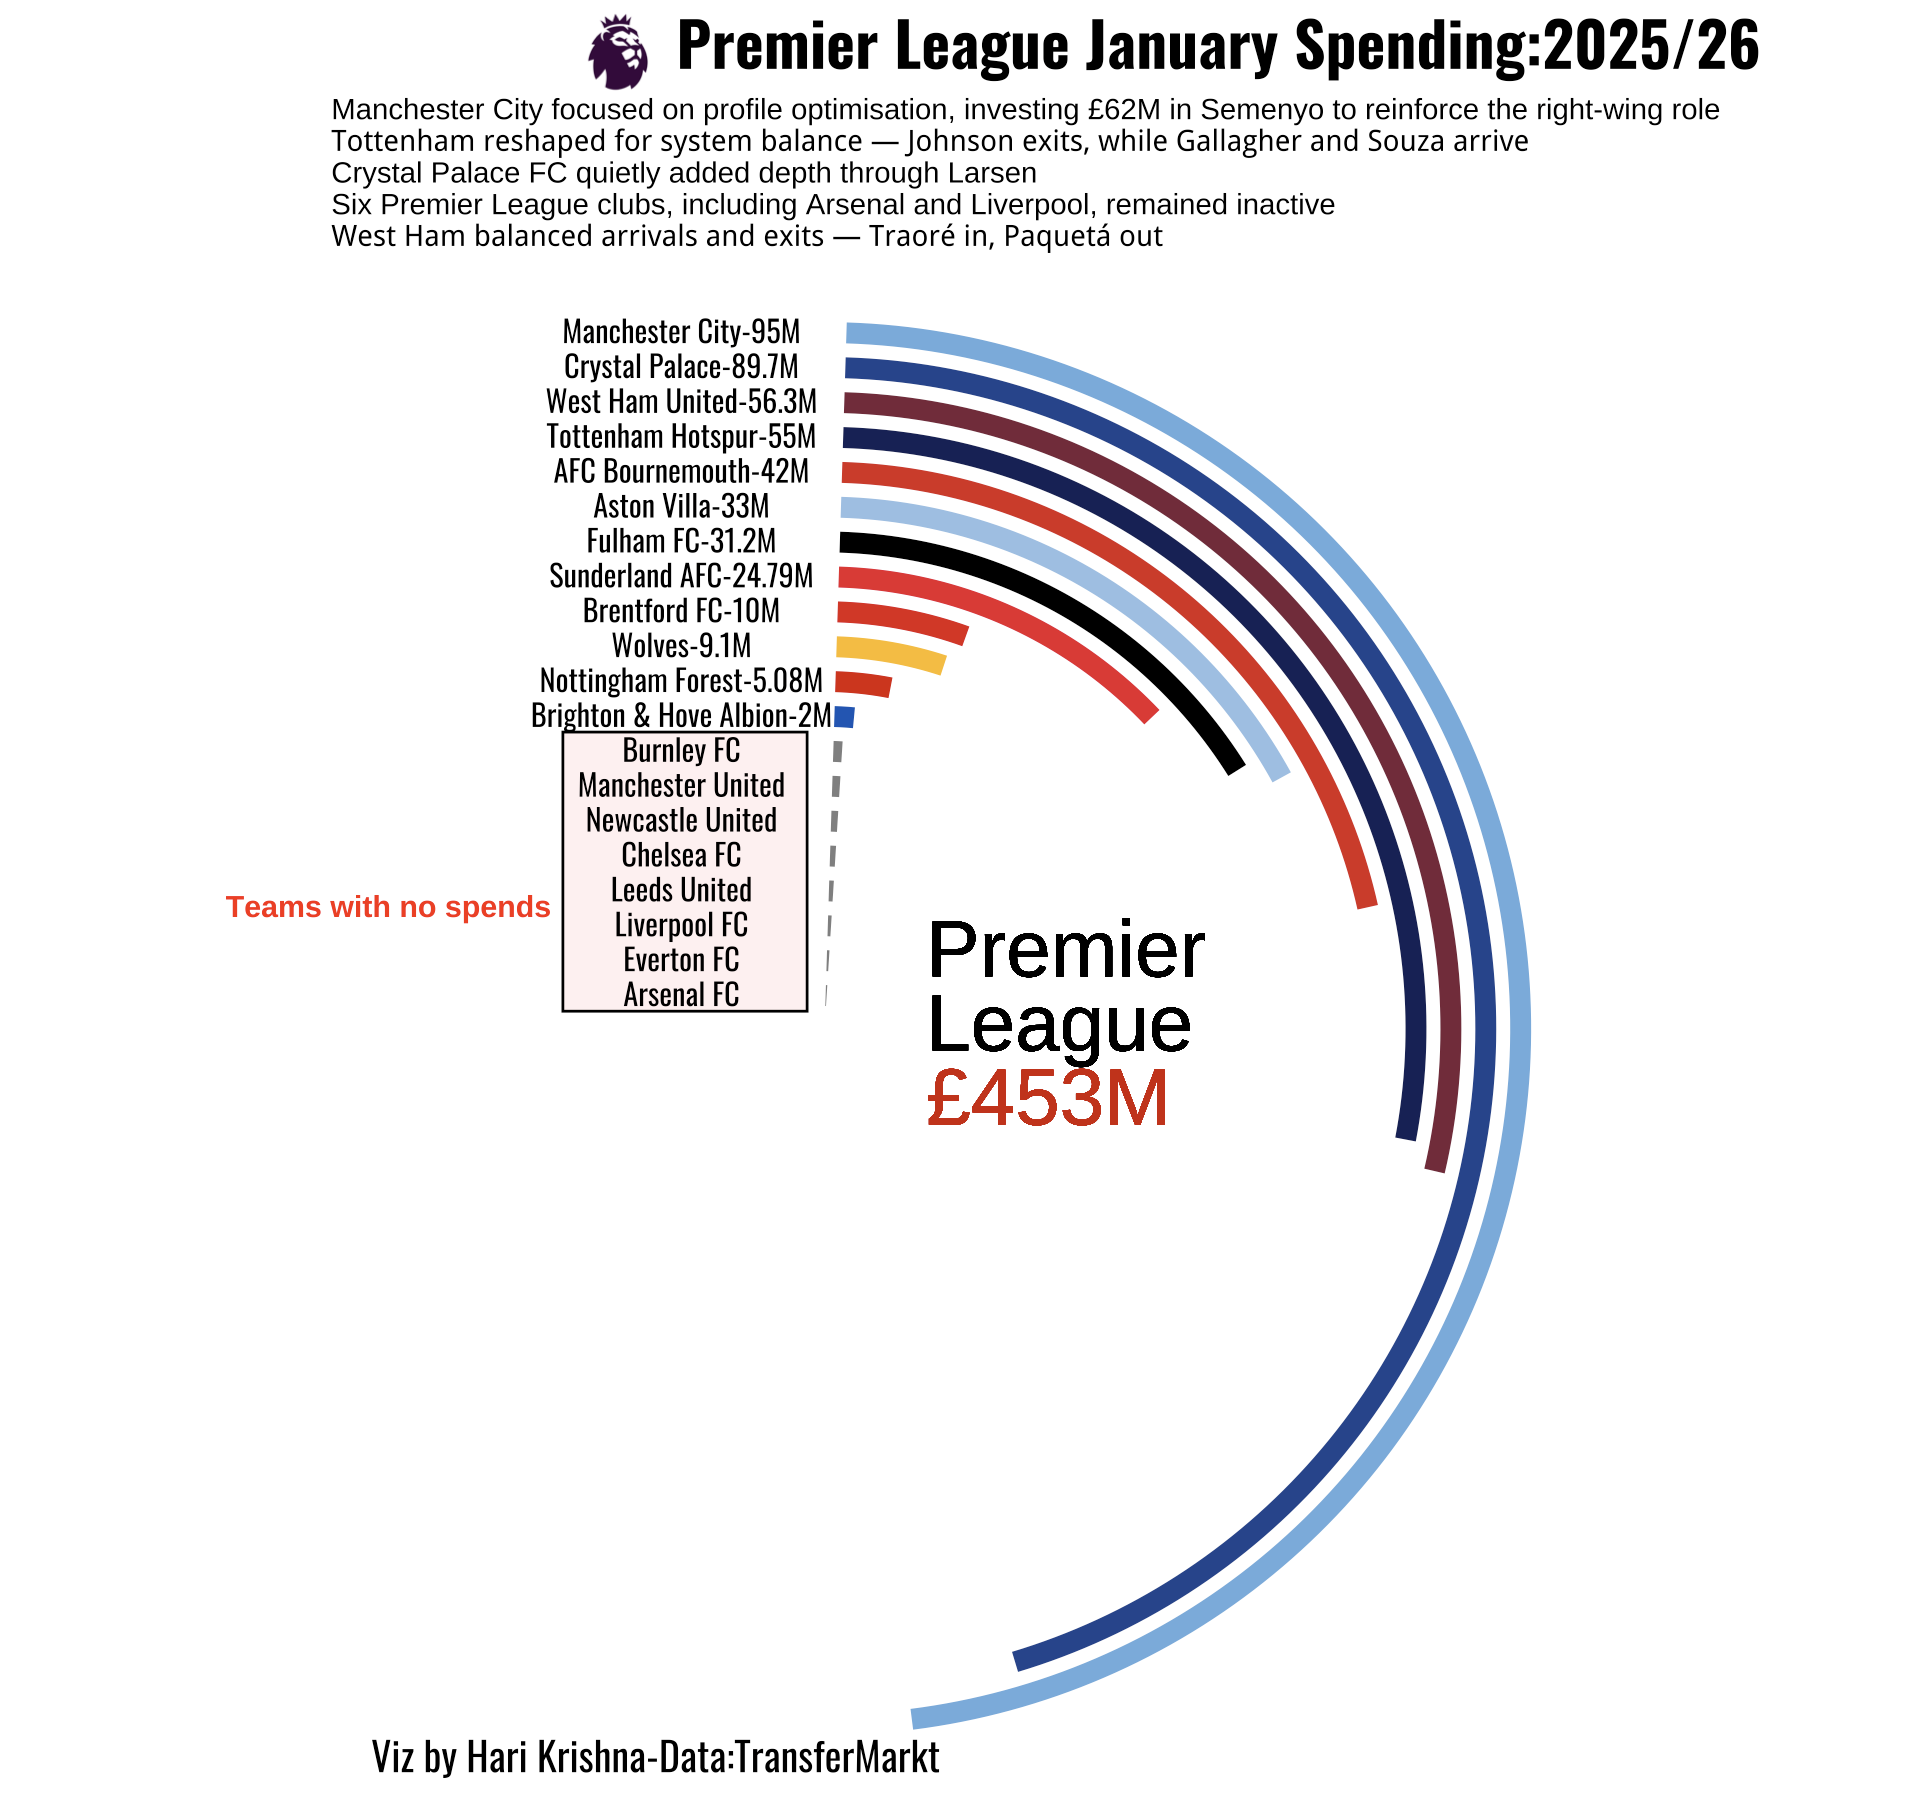
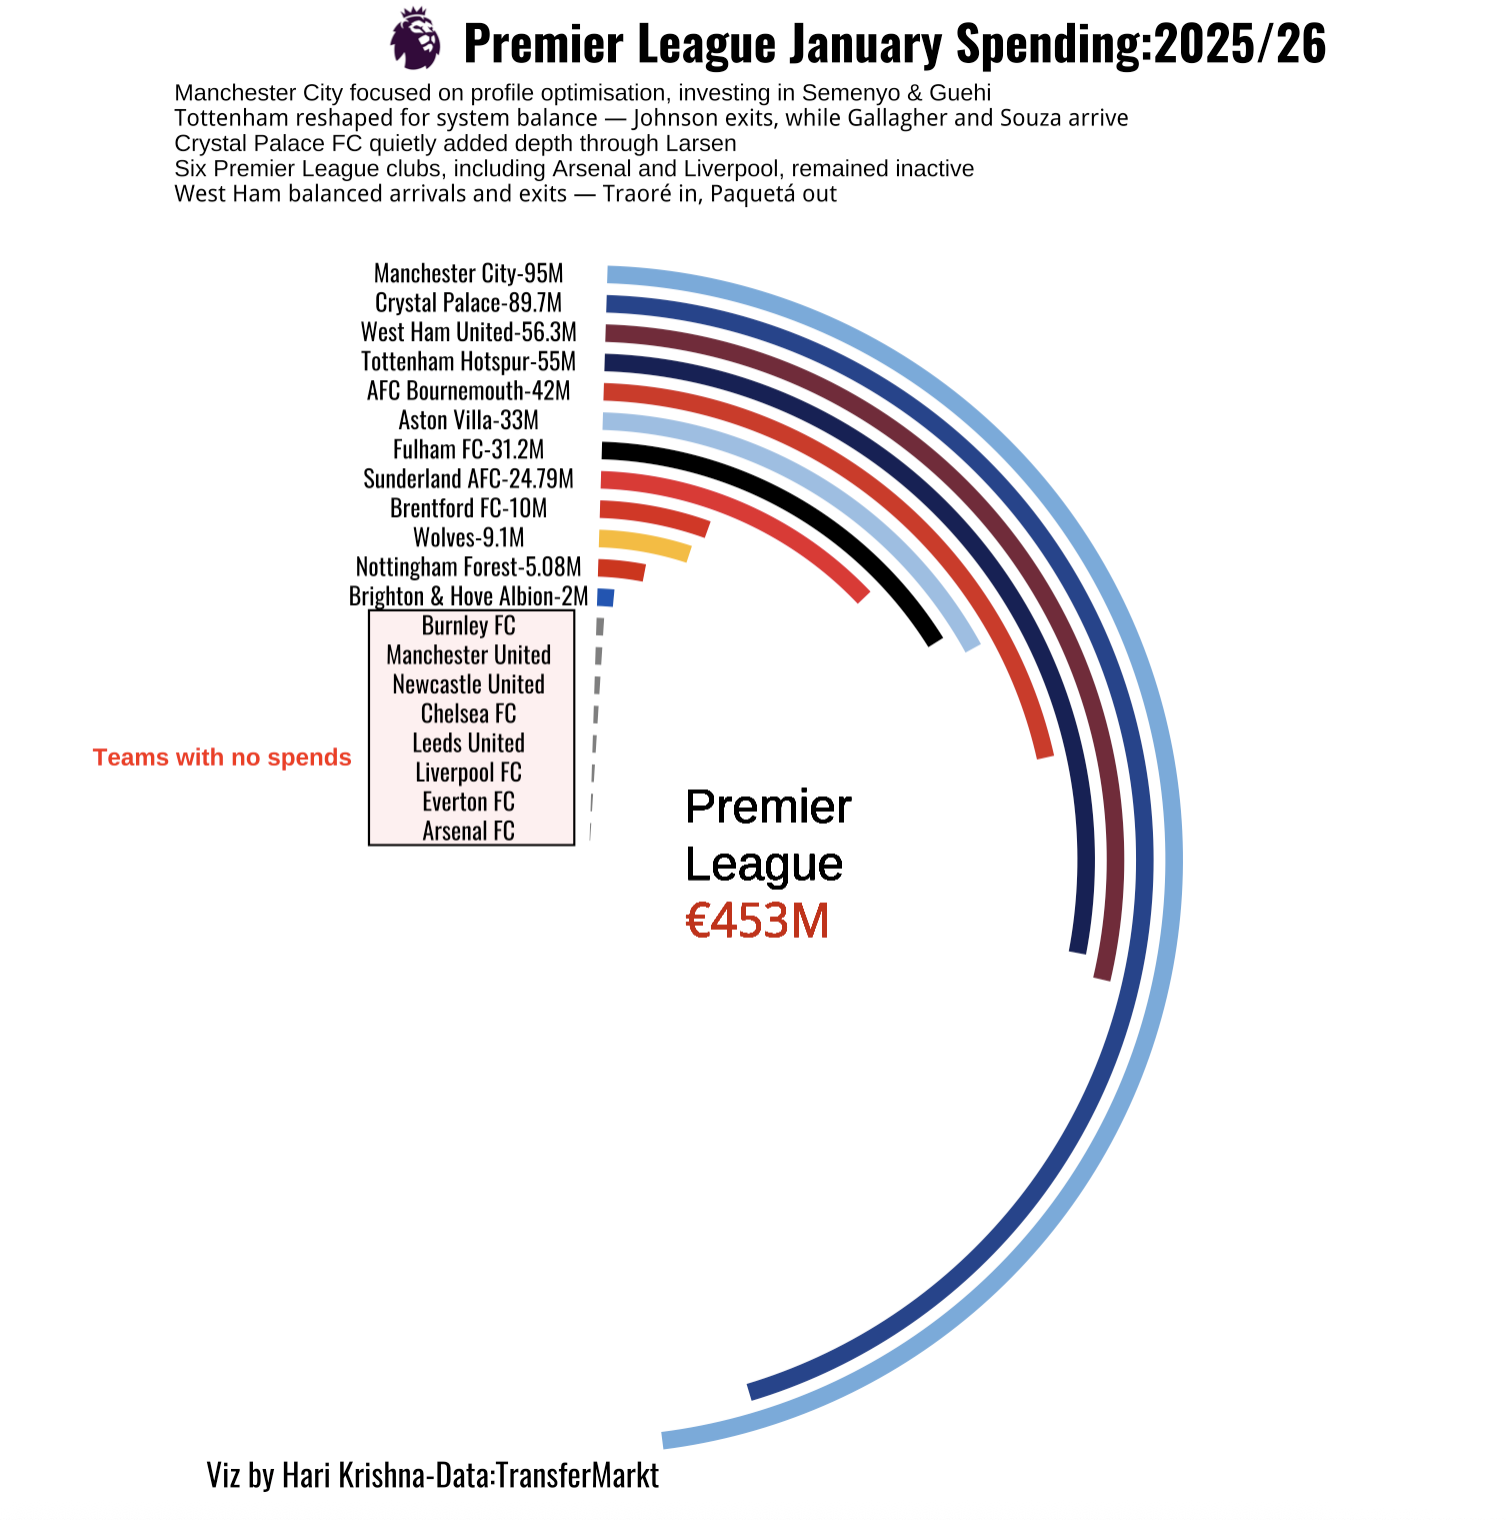
Updated README (#7)
* Updated README

* Added plot for #blog6 Winter Transfer markt

* Update plots in README

* Update currency

* Updated code

Changed region(s): [[0.0624, 0.0, 0.9363, 0.9895], [0.4369, 0.4947, 0.6242, 0.6493]]

diff --git a/README.md b/README.md
@@ -34,8 +34,14 @@
 
 4.  **Transfer Analysis 2025/26 Premier League : Posit Table contest 2025**
 
+Refer the following repo for this project: [Posit Table Submission](https://github.com/harikrishna19/Posit-Table-Contest-2025)
+
 ![](images/PL_New.png)
 
 5.  **Promoted teams performances in last 2 years(23/24,24/25) & the current season**
 
 ![](images/final_viz.png)
+
+6.  **January Transfer Analysis Premier League : 2025/26**
+
+![](R/06-Transfer-Markt-2025-26-season/final_plot.png)
